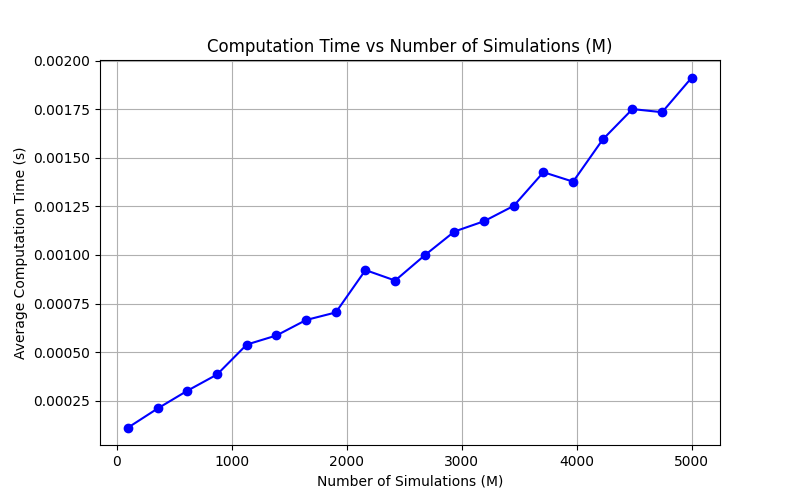
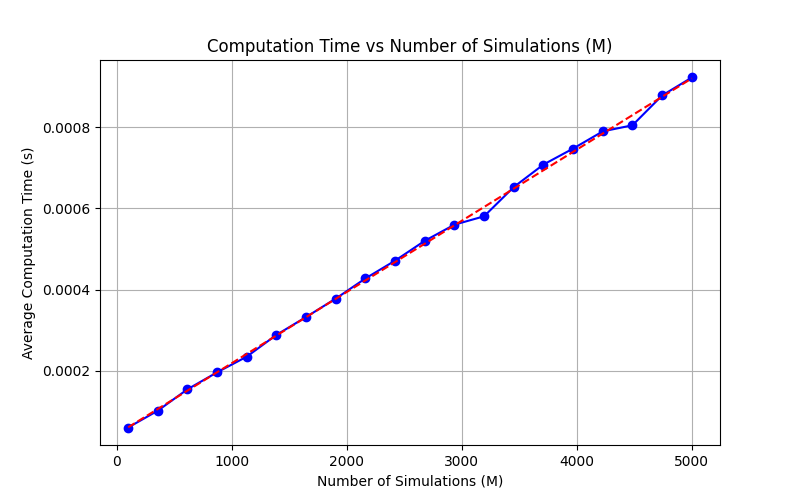
Completed Parameter Optimization! Added TimeVMProofNonlinear.png for proof of concept of nonlinear time complexity.

diff --git a/MCParamOptimization.py b/MCParamOptimization.py
@@ -1,5 +1,8 @@
-#a lot will be the same as montecarlov1.py, but we will be optimizing the parameters of the model
-#there will be fewer comments on the repetitive parts of the code
+"""
+a lot will be the same as montecarlov1.py, but we will be optimizing the parameters of the model
+there will be fewer comments on the repetitive parts of the code
+"""
+
 import numpy as np
 import matplotlib.pyplot as plt
 import pandas as pd
@@ -7,63 +10,57 @@ import yfinance as yf
 from sklearn.metrics import mean_absolute_error
 from datetime import timedelta
 import time
+from scipy.stats import linregress
 
 
-#variables to change
+"""variables to change"""
 
-historical_data_length = 1000  # Number of days of historical data to use
-historical_end_date = pd.to_datetime("2025-02-28")  # Example fixed end date
+historical_data_length = 1000  #how much historical data to use
+historical_end_date = pd.to_datetime("2025-02-28")  #end of historical data, presuambly the day before the start of the simulation
 M=1000 #number of simulations
-stock = "AAPL"  # Stock ticker symbol
+stock = "AAPL"  #stock to predict
+num_trials = 100  #number of trials to run for each parameter. contributes to smoothness of resulting graphs
+M_values = np.linspace(100, 5000, num=20, dtype=int)  #creates range of M values to test to find optimized parameters
+H_values = np.linspace(100, 500, num=20, dtype=int)  #creates range of H values to test to find optimized parameters
 
-#repeated code section, see MonteCarlov1.py for more comments
+"""repeated code section, see MonteCarlov1.py for more comments"""
 dt=1
 historical_start_date = historical_end_date - timedelta(days=historical_data_length)
-#Uncomment the following lines to see the historical start and end dates
+"""uncomment the following lines to see the historical start and end dates"""
 #print(f"Historical Start Date: {historical_start_date.date()}")
 #print(f"Historical End Date: {historical_end_date.date()}")
-StockCloseData = yf.download(stock, start=historical_start_date, end=historical_end_date, progress=False).loc[:, "Close"]
-StockCloseData = StockCloseData.reset_index()
-StockCloseData['Date'] = pd.to_datetime(StockCloseData['Date'])
-StockCloseData['Log Return'] = np.log(StockCloseData[stock] / StockCloseData[stock].shift(1))
+StockCloseData = yf.download(stock, start=historical_start_date, end=historical_end_date, progress=False).loc[:, "Close"] #pull data from yf API
+StockCloseData = StockCloseData.reset_index() #reset index to make it easier to work with
+StockCloseData['Date'] = pd.to_datetime(StockCloseData['Date']) #convert date to datetime
+StockCloseData['Log Return'] = np.log(StockCloseData[stock] / StockCloseData[stock].shift(1)) #calculate log returns
 mean = StockCloseData['Log Return'].mean()
 volatility = StockCloseData['Log Return'].std()
-S_0 = StockCloseData[stock].iloc[-1]  # Current stock price
+S_0 = StockCloseData[stock].iloc[-1] 
 
-#Compare predicted stock price to actual stock price
-#our goal here is to backtest our model while varying M and historical data length and attempt to optimize the parameters in the model
-#this will have to be a rough estimate and will be unlikely to be generalizable, probably a range, as the variance in the market is pretty significant
-#we want to predict over a large number of days to give our model more of a sample size to compare to
+"""Compare predicted stock price to actual stock price
+our goal here is to backtest our model while varying M and historical data length and attempt to optimize the parameters in the model
+this will have to be a rough estimate and will be unlikely to be generalizable, probably a range, as the variance in the market is pretty significant
+we want to predict over a large number of days to give our model more of a sample size to compare to"""
 prediction_start = historical_end_date + timedelta(days=1)
 prediction_end = pd.to_datetime("2025-03-15")
 actual_prices_df = yf.download(stock, start=prediction_start, end=prediction_end, progress=False)[['Close']]
-actual_prices_df = actual_prices_df.reset_index()  # Convert index to column
-actual_prices_df['Date'] = pd.to_datetime(actual_prices_df['Date'])  # Ensure Date is datetime
+actual_prices_df = actual_prices_df.reset_index()
+actual_prices_df['Date'] = pd.to_datetime(actual_prices_df['Date'])
 actual_prices = actual_prices_df['Close'].values
 T = len(actual_prices)
 #now we actually have to predict the stock price for each day of our prediction time period
 S_results = np.zeros((T, M))
-S_results[0] = S_0  # Set initial stock price for all simulations
+S_results[0] = S_0 
 for t in range(1, T):
     S_results[t] = S_results[t-1] * np.exp((mean - 0.5 * volatility**2) * dt + volatility * np.sqrt(dt) * np.random.standard_normal(M))
 predicted_prices = np.mean(S_results, axis=1)
 mae = mean_absolute_error(actual_prices, predicted_prices)
 #print(f"Mean Absolute Error (MAE) for results period: ${mae:.2f}")
-"""
-#plot the results
-import matplotlib.pyplot as plt
-plt.figure(figsize=(10, 5))
-plt.plot(S_results, alpha=0.2)  # Plot all simulation paths with transparency
-plt.xlabel("Days")
-plt.ylabel("Stock Price")
-plt.title(f"Monte Carlo Simulation of {M} Paths for {stock} over {T} Days")
-plt.show()
+
 
 #now we have to actually optimize the parameters
 #we aren't just looking for the lowest MAE, but also computational efficiency and time efficiency
 #we will be optimizing M and historical_data_length against these three metrics
-M_values = M_values = np.linspace(100, 50000, num=500, dtype=int) 
-historical_lengths = np.linspace(25, 1000, num=100, dtype=int) # Different historical data windows
 mae_results_M = []
 mae_results_H = []
 
@@ -84,7 +81,7 @@ for M in M_values:
 
     mae_results_M.append(mae)  # Store MAE for this M
 
-for historical_length in historical_lengths:
+for historical_length in H_values:
     #fix start date
     historical_start_date = historical_end_date - timedelta(days=int(historical_length))
 
@@ -114,52 +111,46 @@ for historical_length in historical_lengths:
 
     mae_results_H.append(mae)  # Store MAE for this historical length"""
 
-"""# Plot MAE vs M
+# Plot MAE vs M
 plt.figure(figsize=(8, 5))
 plt.plot(M_values, mae_results_M, marker='o', linestyle='-', color='b')
 plt.xlabel("Number of Simulations (M)")
 plt.ylabel("Mean Absolute Error (MAE)")
 plt.title("MAE vs Number of Simulations")
 plt.grid(True)
-plt.show()"""
+plt.show()
 
-"""# Plot MAE vs Historical Data Length
+# Plot MAE vs Historical Data Length
 plt.figure(figsize=(8, 5))
-plt.plot(historical_lengths, mae_results_H, marker='o', linestyle='-', color='r')
+plt.plot(H_values, mae_results_H, marker='o', linestyle='-', color='r')
 plt.xlabel("Historical Data Length (Days)")
 plt.ylabel("Mean Absolute Error (MAE)")
 plt.title("MAE vs Historical Data Length")
 plt.grid(True)
-plt.show()"""
-
-num_trials = 200  # Number of runs for averaging
-
-# Define ranges for M and H
-M_values = np.linspace(100, 5000, num=20, dtype=int)  # Number of simulations
-H_values = np.linspace(100, 10000, num=50, dtype=int)  # Historical data length
+plt.show()
 
 time_results_M = []
 time_results_H = []
 
-# Function to process historical stock data
+#subfunction to process historical stock data
 def historical_data_processing(H):
     historical_start_date = historical_end_date - pd.Timedelta(days=int(H))
     df = yf.download(stock, start=historical_start_date, end=historical_end_date, progress=False)
     df['Log Return'] = np.log(df['Close'] / df['Close'].shift(1))
     return df['Log Return'].mean(), df['Log Return'].std(), df['Close'].iloc[-1]
 
-"""# Function to perform Monte Carlo simulation
+#subfunction to perform MC sim
 def monte_carlo_simulation(M, mean, volatility, S_0):
     dt = 1
     S = np.zeros((T, M))
-    S[0] = S_0  # Set initial stock price
-    Wt = np.random.standard_normal((T, M))  # Brownian motion component
+    S[0] = S_0 
+    Wt = np.random.standard_normal((T, M)) 
 
     for t in range(1, T):
         S[t] = S[t-1] * np.exp((mean - 0.5 * volatility**2) * dt + volatility * np.sqrt(dt) * Wt[t])
     return S
-"""
-# Function to get average execution time over multiple runs
+
+#subfunction to get average execution time over multiple runs
 def average_execution_time(func, *args):
     times = []
     for _ in range(num_trials):
@@ -168,27 +159,37 @@ def average_execution_time(func, *args):
         times.append(time.time() - start_time)
     return np.mean(times)
 
-"""# Benchmarking execution time vs M
+#benchmarking execution time vs M
 for M in M_values:
     mean, volatility, S_0 = historical_data_processing(500)  # Fixed historical window for M test
     avg_time = average_execution_time(monte_carlo_simulation, M, mean, volatility, S_0)
-    time_results_M.append(avg_time)"""
+    time_results_M.append(avg_time)
 
-# Benchmarking execution time vs H
+#benchmarking execution time vs H
 for H in H_values:
     avg_time = average_execution_time(historical_data_processing, H)
     time_results_H.append(avg_time)
 
-"""# Plot execution time vs M
+#linreg
+slope, intercept, r_value, p_value, std_err = linregress(M_values, time_results_M)
+
+#print lin reg results
+print(f"Best Fit Line: y = {slope:.10f}M + {intercept:.5f}")
+print(f"R-squared: {r_value**2:.5f}")  # Goodness of fit
+M_fit = np.linspace(min(M_values), max(M_values), 100)
+time_fit = slope * M_fit + intercept
+
+#plot execution time vs M
 plt.figure(figsize=(8, 5))
 plt.plot(M_values, time_results_M, marker='o', linestyle='-', color='b')
+plt.plot(M_fit, time_fit, color='red', linestyle='--', label='Best Fit Line')
 plt.xlabel("Number of Simulations (M)")
 plt.ylabel("Average Computation Time (s)")
 plt.title("Computation Time vs Number of Simulations (M)")
 plt.grid(True)
-plt.show()"""
+plt.show()
 
-# Plot execution time vs H
+#plot execution time vs H
 plt.figure(figsize=(8, 5))
 plt.plot(H_values, time_results_H, marker='o', linestyle='-', color='r')
 plt.xlabel("Historical Data Length (H)")

diff --git a/MonteCarlov1.py b/MonteCarlov1.py
@@ -5,17 +5,16 @@ import yfinance as yf
 from sklearn.metrics import mean_absolute_error
 
 #get historical stock data and store it, choosing apple because it is a well known company
-AppleCloseData = yf.download("AAPL", start="2025-01-01", end="2025-03-15").loc[:, "Close"]
-AppleCloseData = AppleCloseData.reset_index()
-AppleCloseData['Date'] = pd.to_datetime(AppleCloseData['Date'])
+StockCloseData = yf.download("AAPL", start="2025-01-01", end="2025-03-15").loc[:, "Close"]
+StockCloseData = StockCloseData.reset_index()
+StockCloseData['Date'] = pd.to_datetime(StockCloseData['Date'])
 #calculate the log returns
-AppleCloseData['Log Return'] = np.log(AppleCloseData['AAPL'] / AppleCloseData['AAPL'].shift(1))
-#Find mean and volatility of stock
-mean = AppleCloseData['Log Return'].mean()
-volatility = AppleCloseData['Log Return'].std()
+StockCloseData['Log Return'] = np.log(StockCloseData['AAPL'] / StockCloseData['AAPL'].shift(1))
+mean = StockCloseData['Log Return'].mean()
+volatility = StockCloseData['Log Return'].std()
 #actually simulate stock price with monte carlo simulation
-S_0 = AppleCloseData['AAPL'].iloc[-1]  # Current stock price
-print(S_0)  # Outputs an array, so use close_price[0] if needed
+S_0 = StockCloseData['AAPL'].iloc[-1]  #current stock price
+print(S_0) 
 T=252 #number of future days to simulate
 N=1 #number of steps per day (really focused on close prices so, 1 step per day)
 M=1000 #number of simulations
